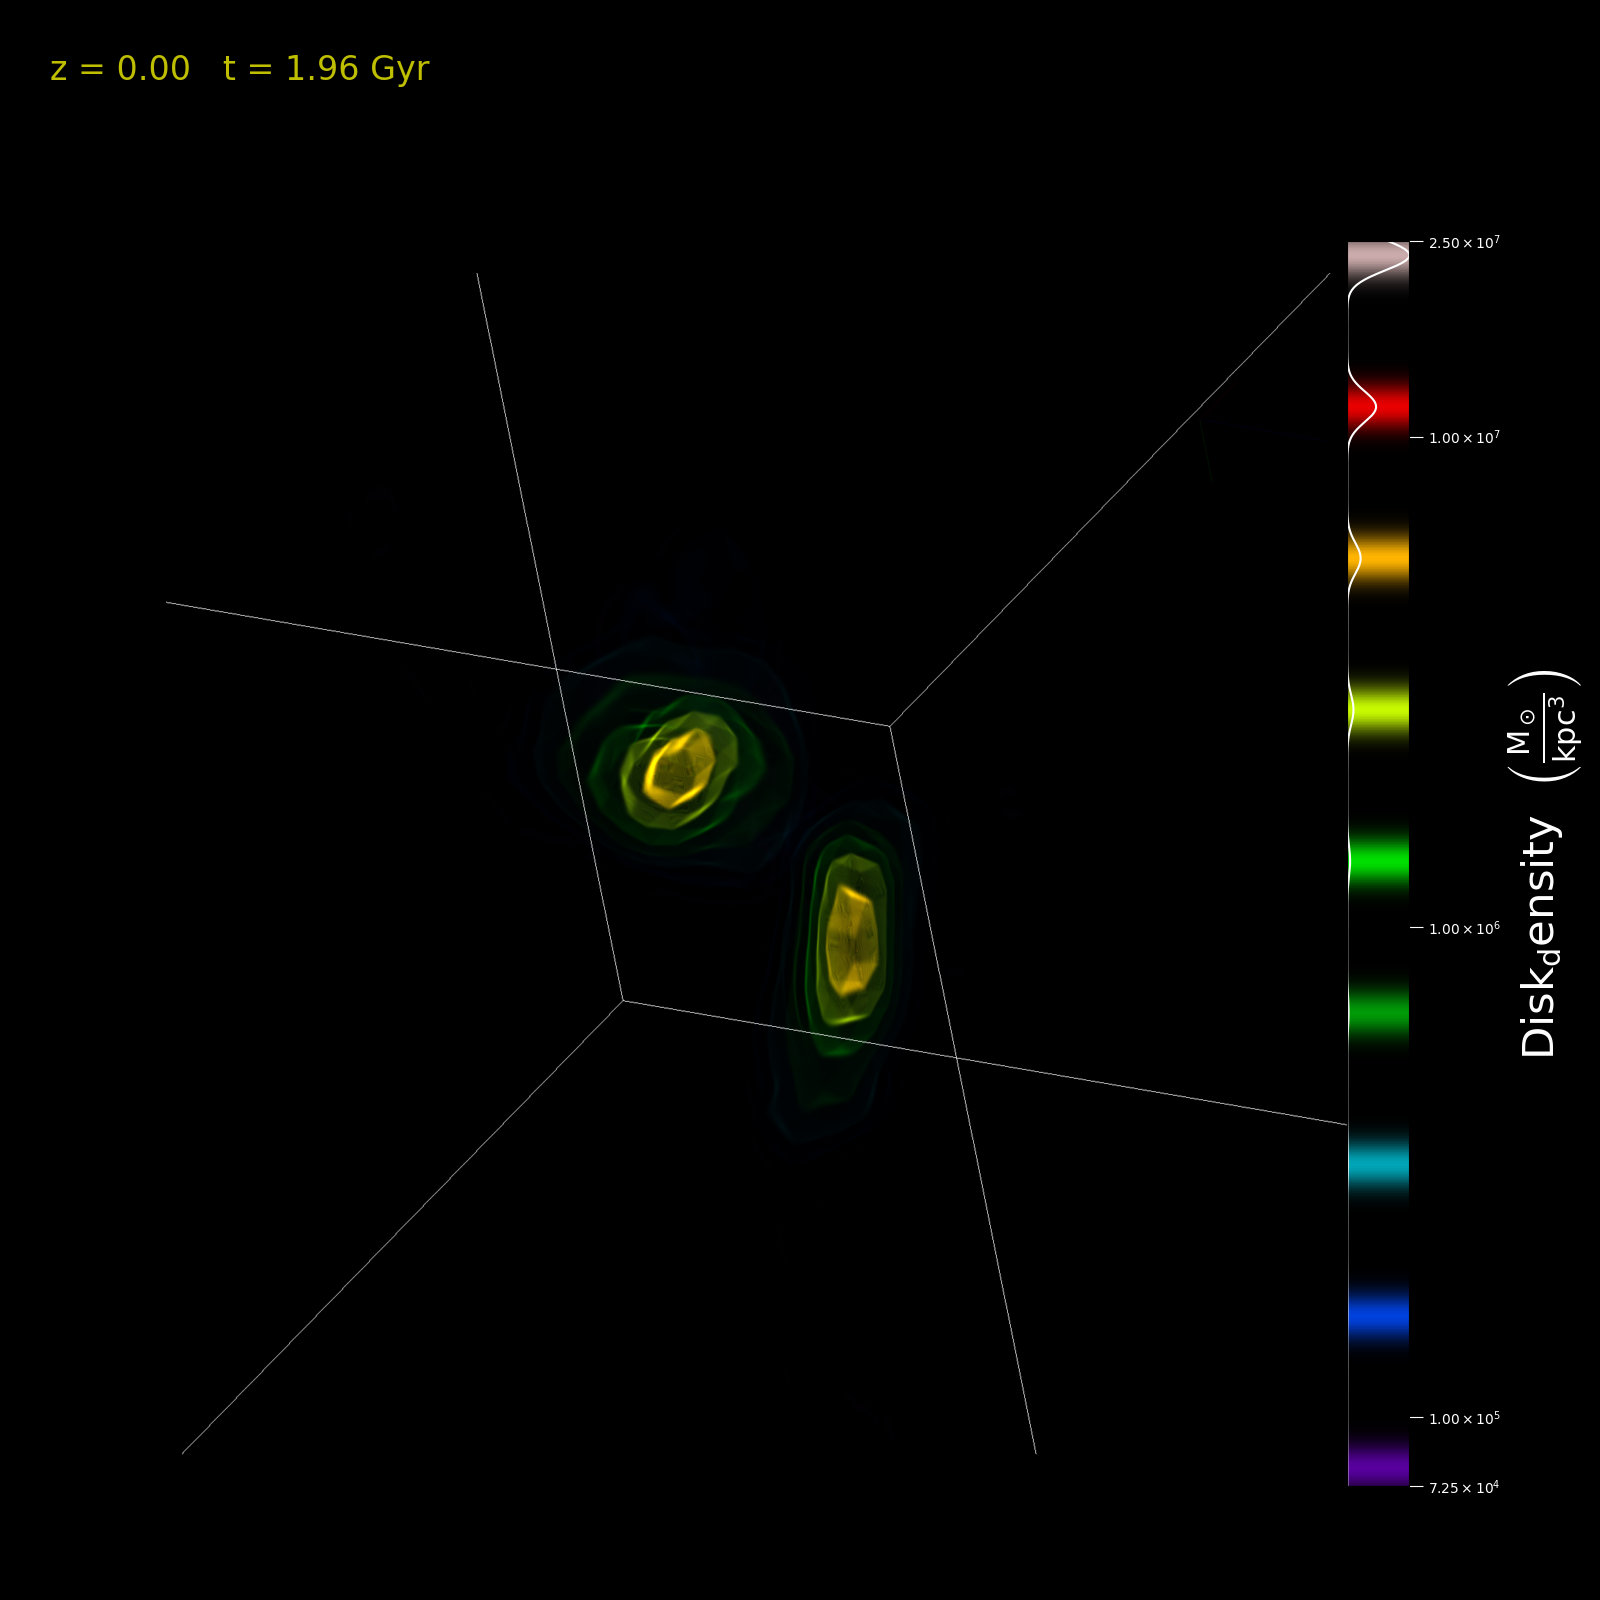
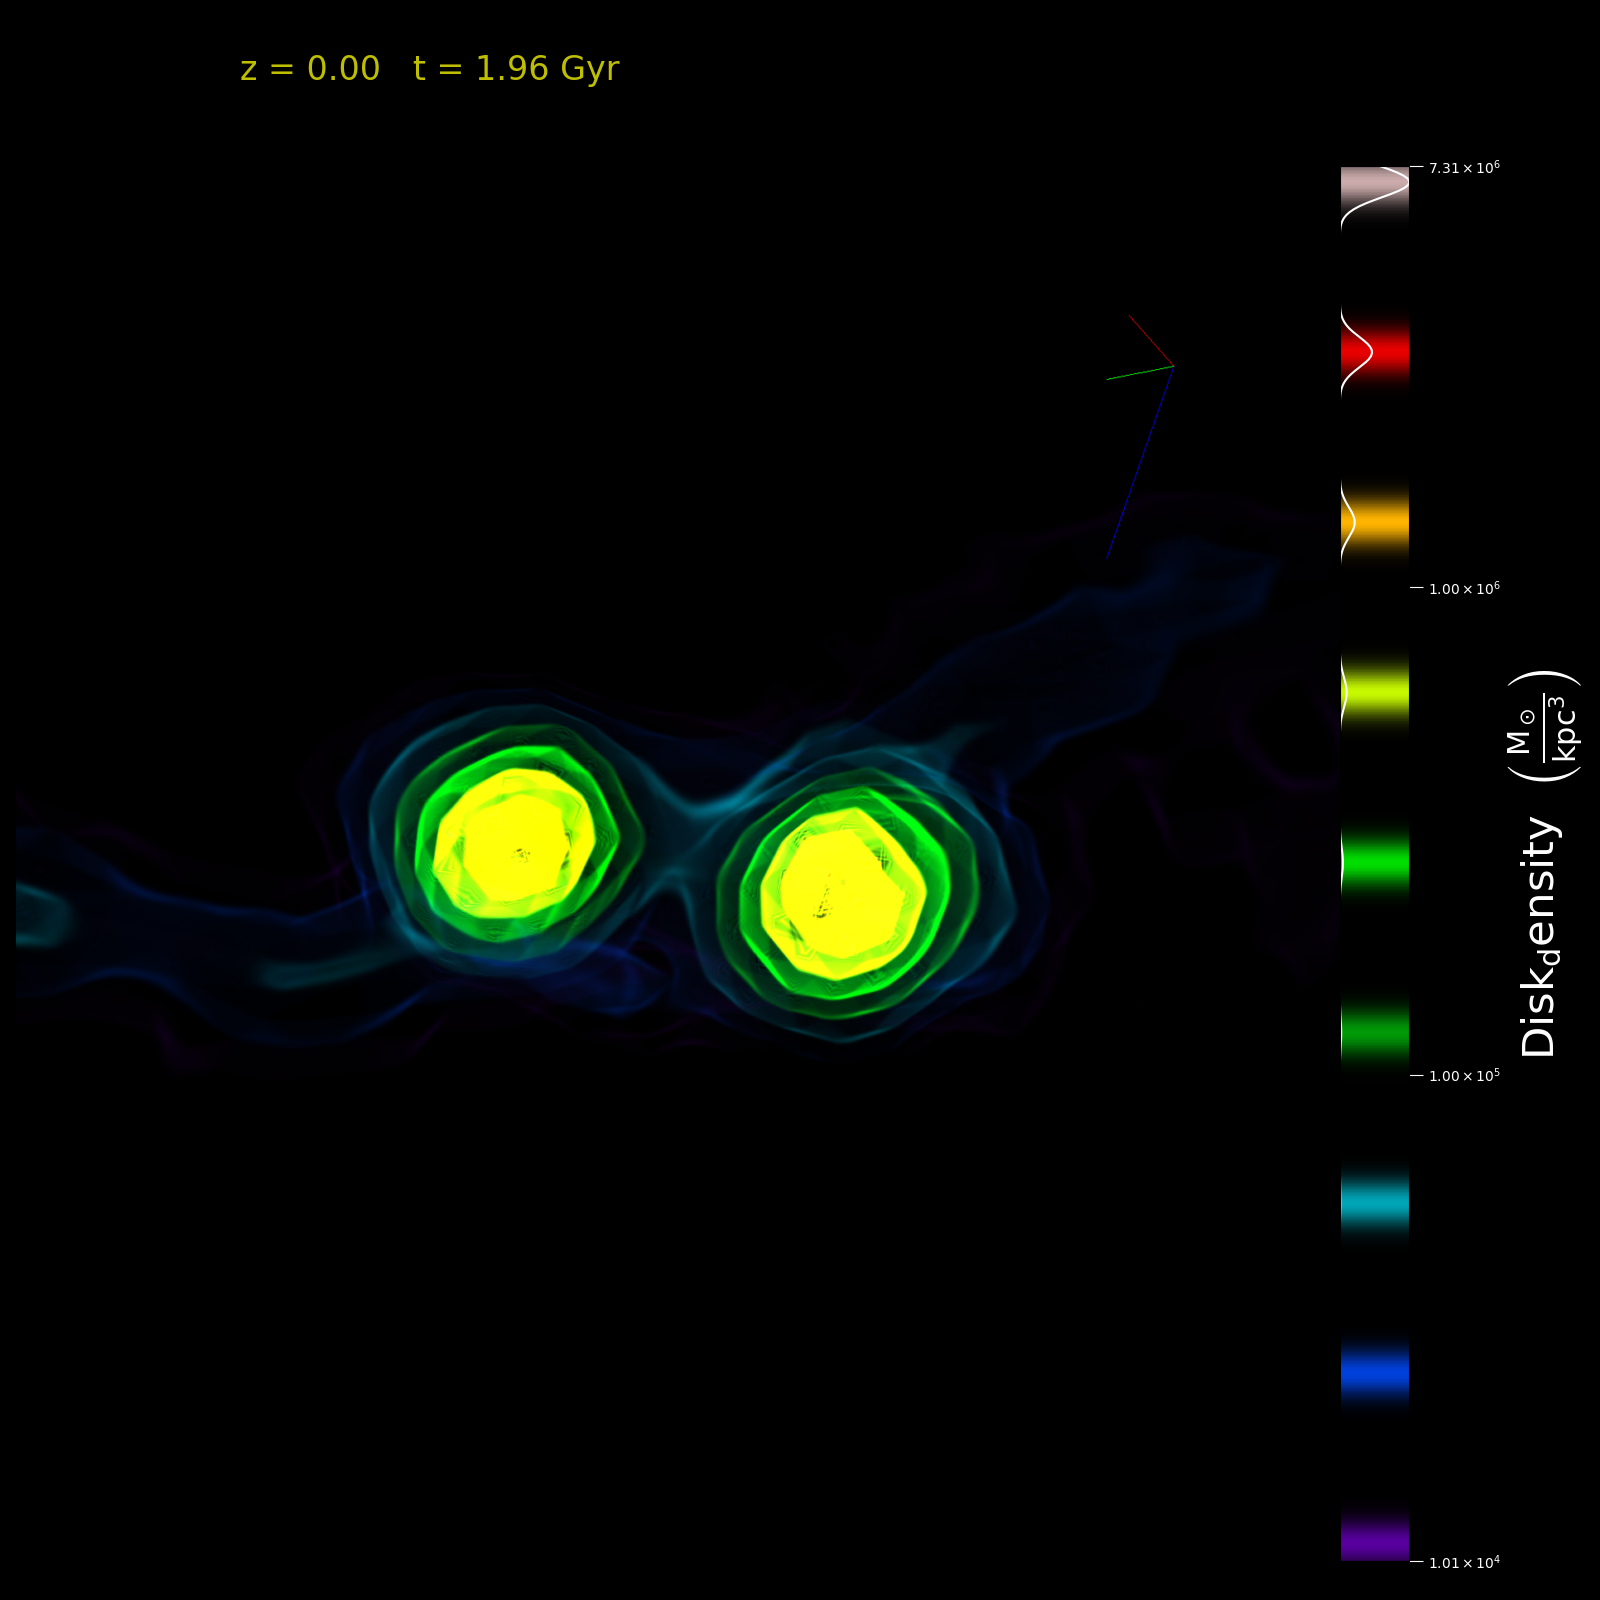
микроправки в графики для конфы

diff --git a/run_test/ytvis.py b/run_test/ytvis.py
@@ -24,7 +24,7 @@ class SnapshotVisualizer:
 		"""
 		self.snapshot_path = snapshot_path
 		self.ds = yt.load(snapshot_path)
-		self.graph_path = "graph/"
+		self.graph_path = "run_test/graph/"
 		
 		# ⚙ Основные параметры визуализации
 		self.cmap = "inferno"                        # цветовая карта
@@ -33,7 +33,7 @@ class SnapshotVisualizer:
 		self.color_back = "black"
 		self.color_text = 'white'
 
-		self.width = unyt_quantity(200.0,"kpc") 
+		self.width = unyt_quantity(400.0,"kpc") 
 
                  # ширина области обзора
 		self.resolution = 1600
@@ -54,7 +54,6 @@ class SnapshotVisualizer:
 		print(f"Redshift:            {self.ds.current_redshift:.5f}")
 		print(f"Domain center:       {self.ds.domain_center.to('kpc')}")
 		print(f"Domain width:        {self.ds.domain_width.to('kpc')}")
-		print(f"Доступные частицы:   {self.ds.ptypes}")
 		
 		print("Основные параметры:")
 		for key, val in self.ds.parameters.items():
@@ -93,31 +92,36 @@ class SnapshotVisualizer:
 		plot.set_xlabel("R [kpc]")
 		plot.save(self.graph_path + f"{ptype}_SpeedProfile1D.png")
 
-	def plot_density_profile(self, ptype = "Halo"):
-		field_name = (ptype, f'{ptype}_r')
+	def plot_density_profile(self, ptype1 = "Halo", ptype2 = "Disk"):
+		field_name1 = (ptype1, f'{ptype1}_r')
+		field_name2 = (ptype2, f'{ptype2}_r')
 
 		profile =[]
 		labels = []
+		plot_specs = [dict(color="red", linestyle="-"), dict(color="green", linestyle="-")]
 		ad = self.ds.all_data()
 		profile.append(yt.create_profile(
 			ad,
-			bin_fields=[field_name],
-       		fields=[field_name],
+			bin_fields=[field_name1],
+       		fields=[field_name1],
         	weight_field=None,
-			n_bins=15))
+			n_bins=20))
 		profile.append(yt.create_profile(
 			ad,
-			bin_fields=[field_name],
-        	fields=[field_name],
+			bin_fields=[field_name2],
+        	fields=[field_name2],
         	weight_field=None,
-			n_bins=self.dim))
+			n_bins=20))
 			
 		labels.append(f"Count in bins")
 		labels.append(f"Count particles")
-		plot = yt.ProfilePlot.from_profiles(profile, labels=labels)
-		plot.set_log(field_name, False)
+		plot = yt.ProfilePlot.from_profiles(profile, 
+									  labels=labels,
+									  plot_specs=plot_specs)
+		plot.set_log(field_name1, False)
+		plot.set_log(field_name2, False)
 		plot.set_xlabel("R [kpc]")
-		plot.save(self.graph_path + f"{ptype}_PartProfile1D.png")
+		plot.save(self.graph_path + f"PartProfile1D.png")
 
 	def plot_phase_vr(self, ptype = "Halo"):
 		field_r = (ptype, f'{ptype}_r')
@@ -176,6 +180,127 @@ class SnapshotVisualizer:
 			p.render()
 			
 		plt.savefig(self.graph_path+ptype+"_"+output_file)
+
+	def plot_radial_distribution(
+		self,
+		ptype_list=["Halo", "Disk"],
+		field_name_template="{ptype}_r", 
+		n_bins=40
+	):
+		"""
+		Строит график распределения по радиусу для разных ptype.
+
+		Args:
+			ptype_list: список типов частиц, например ["Halo", "Disk"]
+			field_name_template: шаблон названия поля радиуса
+			plot_styles: dict кастомизации графика для каждого ptype
+			n_bins: число бинов
+		"""
+		import matplotlib.pyplot as plt
+
+		ad = self.ds.all_data()
+		fig, ax = plt.subplots()
+		plot_styles =dict(
+        {"Halo": {"color": self.color_dm, "linestyle": "-", "linewidth": 1.5},
+        "Disk": {"color": self.color_gas, "linestyle": "-", "linewidth": 1.5}}
+		)
+		for ptype in ptype_list:
+			radius_field = f"{ptype}_r"
+
+			r = ad[radius_field].to("kpc").ndarray_view()
+			
+			# Создаём гистограмму
+			hist, edges = np.histogram(r, bins=n_bins)
+			centers = 0.5 * (edges[1:] + edges[:-1])
+
+			# Настройки стиля
+			style = plot_styles.get(ptype, {}) if plot_styles else {}
+			label = f"{ptype}"
+
+			ax.plot(centers, hist, label=label, **style)
+
+
+		ax.spines["top"].set_visible(False)
+		ax.spines["right"].set_visible(False)
+
+		ax.set_xlabel("Radius [kpc]")
+		ax.set_xscale("log")
+		ax.set_ylabel("Particle count")
+		ax.legend(loc="best")
+		ax.grid(False)
+
+		out_path = self.graph_path + "RadialProfile.png"
+		fig.savefig(out_path)
+		print(f"[yt] Saved radial profile plot to {out_path}")
+		plt.close(fig)
+
+
+	def plot_rotation_curves(
+		self,
+		ptype_list=["Halo", "Disk"],
+		n_bins=30,
+		r_units="kpc",
+		v_units="km/s"
+	):
+		"""
+		Вручную строит speed-профили аналогично yt.create_profile(...),
+		для каждого ptype в ptype_list.
+		"""
+		import matplotlib.pyplot as plt
+		import numpy as np
+
+		ad = self.ds.all_data()
+		fig, ax = plt.subplots()
+
+		plot_styles = {
+			"Halo": {"color": self.color_dm, "linestyle": "-", "linewidth": 3},
+			"Disk": {"color": self.color_gas, "linestyle": "-", "linewidth": 3},
+		}
+
+		for ptype in ptype_list:
+			# Радиус и модуль скорости
+			r = ad[(ptype, f"{ptype}_r")].to(r_units).ndarray_view()
+			v = ad[(ptype, f"{ptype}_v")].to(v_units).ndarray_view()
+
+			bins = np.linspace(r.min(), r.max(), n_bins + 1)
+			indices = np.digitize(r, bins)
+
+			v_mean = []
+			r_centers = []
+
+			for i in range(1, len(bins)):
+				mask = indices == i
+				if np.any(mask):
+					v_bin = v[mask]
+					v_mean.append(np.mean(v_bin))  # аналог weight_field=None
+					r_centers.append(0.5 * (bins[i] + bins[i - 1]))
+			style = plot_styles.get(ptype, {})
+
+			# 1. Полупрозрачные точки: r-v (сырые данные)
+			ax.scatter(r, v, alpha=0.1, color=style.get("color", "gray"), s=1, label=f"{ptype} particles")
+
+			# 2. Жирная линия: средняя скорость по радиусу
+			line_style = {
+				"color": style.get("color", "black"),
+				"linestyle": style.get("linestyle"),
+				"linewidth": 3,
+			}
+			ax.plot(r_centers, v_mean, label=f"{ptype} mean", **line_style)
+
+		ax.set_xlabel(f"R [{r_units}]")
+		ax.set_ylabel(f"Mean |v| [{v_units}]")
+		ax.set_yscale("log")
+		ax.legend()
+		ax.grid(False)
+		fig.tight_layout()
+
+		out_path = self.graph_path + "rotcurve.png"
+		fig.savefig(out_path, dpi=300)
+		print(f"[yt] Saved speed profile to {out_path}")
+		plt.close(fig)
+
+
+
 
 	def plot_disk_halo_3d(self, elev=30, azim=310, output_file="disk_halo_3d.png"):
 		"""
@@ -253,36 +378,38 @@ class SnapshotVisualizer:
 
 	def plot_density_yt3d(self, grid, ptype = "Halo", output_file="_density_yt3D.png"):
 		sc = yt.create_scene(grid, field=("stream", f"{ptype}_density"))
-
+		# tf = yt.ColorTransferFunction([-28, -25])
+		# tf.clear()
+		# tf.add_layers(4, 0.02, alpha=np.logspace(-3, -1, 4), colormap="winter")
+		# source.set_transfer_function(tf)
 		
-		sc.camera.position = grid.arr([2, 1.5, -1.5 ], "unitary")
+		sc.camera.position = grid.arr([+0.5, -0.5, 0.5 ], "unitary")
 		sc.camera.resolution = (1*self.resolution, 1*self.resolution)
-		sc.camera.focus = grid.arr([0, 0,0], "unitary")
-		sc.camera.zoom(2)
+		sc.camera.focus = grid.arr([0, 0, 0], "unitary")
+		sc.camera.zoom(3)
 
 		# Добавляет веса разным событиям по массе
 		# source = sc[0]
-		#mn, mx = int(grid.all_data()["density"].min().to("Msun/kpc**3").value), int(grid.all_data()["density"].max().to("Msun/kpc**3").value)
+		# mn, mx = int(grid.all_data()[f"{ptype}_density"].min().to("Msun/kpc**3").value), int(grid.all_data()[f"{ptype}_density"].max().to("Msun/kpc**3").value)
 		# source.set_log(True)
-		# bounds = (mn+1,mx*10)
+		# bounds = (mx/1000,mx*10)
 		# tf = yt.ColorTransferFunction(np.log10(bounds))
-		# tf.sample_colormap(np.log10(mx)-0.5, w=0.05, colormap="hot")
+		# tf.sample_colormap(np.log10(mx)-0.5, w=0.08, colormap=self.cmap)
 		# source.tfh.tf = tf
 		# source.tfh.bounds = bounds
-		# source.tfh.plot("transfer_function.png", profile_field=("stream", "density"))				
+		# source.tfh.plot("transfer_function.png", profile_field=("stream", f"{ptype}_density"))				
 		
 
 
 		text_annot = f"z = {self.redshift:.2f}"+"   "+f"t = {self.cosmtime:.2f}"
-		sc.annotate_axes(alpha=0.01)
-		sc.annotate_domain(grid)
-		sc.annotate_mesh_lines(grid)
+		sc.annotate_axes(alpha=0.03)
+		sc.annotate_mesh_lines(grid, alpha = 0.03)
 		# sc.save(ptype+output_file, sigma_clip=1.0)
 		sc.save_annotated(self.graph_path+ptype+output_file,
-					 sigma_clip=1.0, 
+					 sigma_clip=2.0, 
 					 text_annotate=[[
 						 (0.15, 0.95), text_annot,
-						 dict(color="y", fontsize="24", horizontalalignment="center")]]
+						 dict(color="y", fontsize="24", horizontalalignment="left")]]
 					)
 		
 		print(f"[yt] Сохранено рендер: {ptype+output_file}")
@@ -348,7 +475,7 @@ class SnapshotVisualizer:
 		basis = np.array([x_axis, y_axis, z_axis])
 
 
-		output_file = f"analysis/finder/{ptype}_frame.json"
+		output_file = f"{self.graph_path}/../analysis/finder/{ptype}_frame.json"
 		out_data = {
 			"center_kpc": center.tolist(),
 			"basis_rows": basis.tolist(),  # [x_axis, y_axis, z_axis]
@@ -365,15 +492,25 @@ class SnapshotVisualizer:
 
 if __name__ == "__main__":
 	
-	for i, snap in enumerate([f"snaps/snapshot_00{i}" for i in range(8)]):
-		vis = SnapshotVisualizer(snap)		
-		for ptype in ["Disk", "Halo"]:
-			# vis.make_coord_fields(ptype)
-			grid = vis.make_density_field(ptype=ptype)
+	# for i, snap in enumerate([f"run_test/snaps/snapshot_00{i}" for i in range(7,8)]):
+	# 	vis = SnapshotVisualizer(snap)		
+	# 	vis.print_header_info()
+		# for ptype in ["Disk", "Halo"]:
+		# 	# vis.make_coord_fields(ptype)
+		# 	grid = vis.make_density_field(ptype=ptype)
 
-			vis.plot_density_yt3d(grid,ptype=ptype, output_file = f"_density_yt3D_{i}.png")
+		# 	vis.plot_density_yt3d(grid,ptype=ptype, output_file = f"_density_yt3D_{i}.png")
+	
+	snap = "run_test/snaps/snapshot_007"
+	vis = SnapshotVisualizer(snap)
+	vis.make_coord_fields("Halo")
+	vis.make_coord_fields("Disk")
+	# vis.plot_radial_distribution(n_bins=25)
+	vis.plot_rotation_curves(n_bins=30)
+	
 	
 	# vis.plot_speed_profile(ptype)
+	
 
 	# vis.plot_inplane2d(grid, zaxis="z", ptype =ptype)
 	# vis.plot_phase_vr(ptype)

diff --git a/run_test/field_maker.py b/run_test/field_maker.py
@@ -43,7 +43,7 @@ def make_vrad(field_pos, field_vel):
     def _func(field, data):
         x,y,z = np.moveaxis(data[field_pos],1,0)
         vx,vy,vz = np.moveaxis(data[field_vel],1,0)
-        eps = unyt_quantity(1e-15, r.units)
+        eps = unyt_quantity(1e-15, x.units)
         r = np.sqrt(x*x + y*y + z*z) + eps
         return (x*vx + y*vy + z*vz)/r
     return _func
@@ -64,6 +64,7 @@ def make_angular_momentum(field_pos, field_vel):
         Jz = x*vy - y*vx
         return np.vstack([Jx, Jy, Jz]).T
     return _func
+
 
 # … (можно аналогично сделать функции для Jx, Jy, Jz, |J|, массы и т.п.) …
 
@@ -89,7 +90,7 @@ def register_particle_fields(ds, ptype):
         f"{ptype}_vz":    (make_scalar_component(parent_vel, 2), "km/s",       "particle"),
         f"{ptype}_v":   (make_radius(parent_vel),             "km/s",       "particle"),
         # f"{ptype}_v_r":   (make_vrad(parent_pos, parent_vel),    "km/s",       "particle"),
-        # f"{ptype}_v_t":   (make_vtan(parent_pos, parent_vel),    "km/s",       "particle"),
+        f"{ptype}_vtan":   (make_vtan(parent_pos, parent_vel),    "km/s",       "particle"),
     }
 
     for fname, (func, units, sampling) in fields.items():

diff --git a/run_test/graph/png_to_gif.py b/run_test/graph/png_to_gif.py
@@ -1,0 +1,34 @@
+import imageio.v2 as imageio
+import os
+import re
+
+
+
+def extract_number(fname):
+    match = re.search(r'_(\d+)', fname)
+    return int(match.group(1)) if match else -1
+
+def build_gif_from_images(folder, output_name, prefix, fps = 1):
+    files = sorted(
+        [f for f in os.listdir(folder) if f.endswith('.png') and f.startswith(prefix)],
+        key=extract_number
+    )
+    
+    if not files:
+        print(f"[❌] Не найдено подходящих .png файлов в {folder} с префиксом '{prefix}'")
+        return
+
+    print(f"[✔] Найдено {len(files)} файлов. Собираем GIF: {output_name}")
+    images = [imageio.imread(os.path.join(folder, f)) for f in files]
+    imageio.mimsave(output_name, images, fps=fps, loop=0)
+    print(f"[✅] GIF сохранён: {output_name}")
+
+
+if __name__ == "__main__":
+        # Папка с изображениями
+    ptype = "Halo"
+    build_gif_from_images(
+        folder="run_test/graph",
+        output_name= f"run_test/graph/{ptype}_dens3D.gif",
+        prefix=f"{ptype}_density_yt3D"
+    )

diff --git a/run_test/example_snap3D.py b/run_test/example_snap3D.py
@@ -1,4 +1,4 @@
- import sys
+import sys
 import matplotlib.pyplot as plt
 from mpl_toolkits.mplot3d import Axes3D
 import numpy as np
